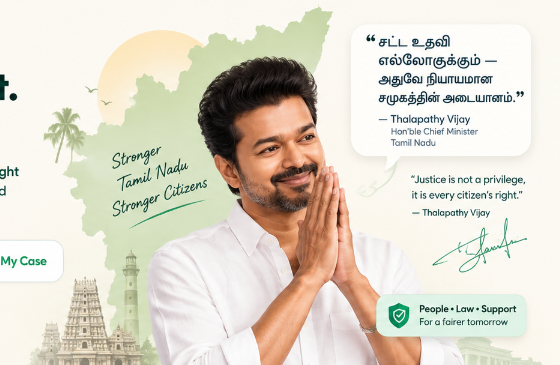
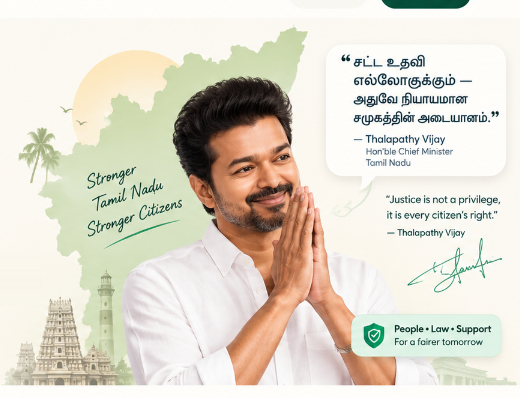
fix(hero): remove text artifacts from CM Vijay hero artwork and refine pill buttons with seamless background

diff --git a/src/components/common/landing/Hero.jsx b/src/components/common/landing/Hero.jsx
@@ -61,25 +61,21 @@ const Hero = () => {
   };
 
   return (
-    <section className="relative pt-28 pb-10 sm:pt-36 sm:pb-14 lg:pt-36 lg:pb-12 overflow-hidden bg-[#FEFDFA]">
-      {/* Soft ambient radial glow */}
-      <div className="absolute top-1/4 left-1/3 -translate-x-1/2 -translate-y-1/2 w-[340px] sm:w-[650px] h-[340px] sm:h-[650px] bg-[#E7F1E4]/70 rounded-full blur-3xl pointer-events-none -z-0" />
-      <div className="absolute top-1/3 right-10 w-[300px] h-[300px] bg-[#FBEED7]/40 rounded-full blur-3xl pointer-events-none -z-0" />
-
+    <section className="relative pt-24 pb-8 sm:pt-32 sm:pb-12 lg:pt-32 lg:pb-10 overflow-hidden bg-[#FAF8F2]">
       <div className="relative z-10 max-w-7xl mx-auto px-4 sm:px-6 lg:px-8">
-        <div className="grid grid-cols-1 lg:grid-cols-12 gap-8 lg:gap-8 items-center">
+        <div className="grid grid-cols-1 lg:grid-cols-12 gap-6 lg:gap-8 items-center">
           
           {/* Left Column: Civic Messaging & Actions */}
-          <div className="lg:col-span-7 space-y-5 text-left">
+          <div className="lg:col-span-6 space-y-5 text-left">
             
             {/* Civic Eyebrow Badge */}
-            <div className="inline-flex items-center gap-2 rounded-full bg-[#E5F0E6] border border-[#CDE3CF] px-3.5 py-1.5 text-xs font-bold text-[#167957] shadow-2xs">
+            <div className="inline-flex items-center gap-2 rounded-full bg-[#E5F0E6] border border-[#CDE3CF] px-4 py-1.5 text-xs font-bold text-[#167957] shadow-2xs">
               <Leaf size={14} className="text-[#167957]" />
               <span>{t("hero.eyebrow", "Accessible Justice for Every Citizen")}</span>
             </div>
 
             {/* Main Heading */}
-            <h1 className="text-4xl sm:text-5xl lg:text-[54px] font-black text-[#163D32] tracking-tight leading-[1.12]">
+            <h1 className="text-4xl sm:text-5xl lg:text-[46px] xl:text-[52px] font-black text-[#163D32] tracking-tight leading-[1.12]">
               {t("hero.title1", "Your Rights. Our Support.")} <br />
               <span className="text-[#12805A]">{t("hero.title2", "A Fairer Tomorrow.")}</span>
             </h1>
@@ -95,7 +91,7 @@ const Hero = () => {
               <button
                 type="button"
                 onClick={() => navigate("/citizen/chatbot")}
-                className="flex items-center justify-center gap-2 px-6 py-3.5 rounded-2xl bg-[#0D3B2E] hover:bg-[#165340] text-white font-bold text-sm shadow-md transition cursor-pointer min-h-[46px]"
+                className="flex items-center justify-center gap-2 px-6 py-3 rounded-full bg-[#0D3B2E] hover:bg-[#165340] text-white font-bold text-sm shadow-md transition cursor-pointer min-h-[44px]"
               >
                 <MessageSquare size={16} />
                 <span>{t("hero.askAi", "Ask ARAM AI")}</span>
@@ -106,7 +102,7 @@ const Hero = () => {
               <button
                 type="button"
                 onClick={() => navigate("/citizen/submit-complaint")}
-                className="flex items-center justify-center gap-2 px-5 py-3.5 rounded-2xl bg-[#FFFDF8] border border-[#DDE2DF] hover:border-[#12805A]/40 text-[#12805A] hover:bg-[#DCEBDD]/30 font-bold text-sm shadow-2xs transition cursor-pointer min-h-[46px]"
+                className="flex items-center justify-center gap-2 px-5 py-3 rounded-full bg-white border border-[#12805A] hover:border-[#0D3B2E] text-[#12805A] hover:bg-[#E8F3ED] font-bold text-sm shadow-2xs transition cursor-pointer min-h-[44px]"
               >
                 <FileText size={16} className="text-[#12805A]" />
                 <span>{t("hero.fileGrievance", "File a Grievance")}</span>
@@ -116,7 +112,7 @@ const Hero = () => {
               <button
                 type="button"
                 onClick={() => navigate("/track-complaint")}
-                className="flex items-center justify-center gap-2 px-5 py-3.5 rounded-2xl bg-[#FFFDF8] border border-[#DDE2DF] hover:border-[#12805A]/40 text-[#12805A] hover:bg-[#DCEBDD]/30 font-bold text-sm shadow-2xs transition cursor-pointer min-h-[46px]"
+                className="flex items-center justify-center gap-2 px-5 py-3 rounded-full bg-white border border-[#12805A] hover:border-[#0D3B2E] text-[#12805A] hover:bg-[#E8F3ED] font-bold text-sm shadow-2xs transition cursor-pointer min-h-[44px]"
               >
                 <Compass size={16} className="text-[#12805A]" />
                 <span>{t("hero.trackCase", "Track My Case")}</span>
@@ -128,40 +124,40 @@ const Hero = () => {
               <button
                 type="button"
                 onClick={handleVoice}
-                className={`flex items-center gap-2 px-4 py-2.5 rounded-2xl border font-bold text-xs transition shadow-2xs cursor-pointer min-h-[40px] ${
+                className={`flex items-center gap-2 px-4 py-2 rounded-full border font-bold text-xs transition shadow-2xs cursor-pointer min-h-[38px] ${
                   isRecording
                     ? "bg-red-600 text-white border-red-700 animate-pulse"
-                    : "bg-[#FFFDF8] border-[#DDE2DF] text-[#163D32] hover:bg-[#DCEBDD]/40"
+                    : "bg-white border-[#DDE2DF] hover:border-[#12805A] text-[#163D32] hover:bg-[#E8F3ED]/60"
                 }`}
               >
-                <Mic size={15} className={isRecording ? "text-white" : "text-[#12805A]"} />
+                <Mic size={14} className={isRecording ? "text-white" : "text-[#12805A]"} />
                 <span>{isRecording ? t("hero.listening", "Listening...") : "Speak"}</span>
               </button>
 
               <button
                 type="button"
                 onClick={() => navigate("/citizen/chatbot")}
-                className="flex items-center gap-2 px-4 py-2.5 rounded-2xl bg-[#FFFDF8] border border-[#DDE2DF] text-[#163D32] hover:bg-[#DCEBDD]/40 font-bold text-xs transition shadow-2xs cursor-pointer min-h-[40px]"
+                className="flex items-center gap-2 px-4 py-2 rounded-full bg-white border border-[#DDE2DF] hover:border-[#12805A] text-[#163D32] hover:bg-[#E8F3ED]/60 font-bold text-xs transition shadow-2xs cursor-pointer min-h-[38px]"
               >
-                <Keyboard size={15} className="text-[#12805A]" />
+                <Keyboard size={14} className="text-[#12805A]" />
                 <span>Type</span>
               </button>
 
               <button
                 type="button"
                 onClick={() => navigate("/citizen/documents")}
-                className="flex items-center gap-2 px-4 py-2.5 rounded-2xl bg-[#FFFDF8] border border-[#DDE2DF] text-[#163D32] hover:bg-[#DCEBDD]/40 font-bold text-xs transition shadow-2xs cursor-pointer min-h-[40px]"
+                className="flex items-center gap-2 px-4 py-2 rounded-full bg-white border border-[#DDE2DF] hover:border-[#12805A] text-[#163D32] hover:bg-[#E8F3ED]/60 font-bold text-xs transition shadow-2xs cursor-pointer min-h-[38px]"
               >
-                <FileUp size={15} className="text-[#12805A]" />
+                <FileUp size={14} className="text-[#12805A]" />
                 <span>Upload</span>
               </button>
 
               <button
                 type="button"
                 onClick={() => navigate("/citizen/submit-complaint")}
-                className="flex items-center gap-2 px-4 py-2.5 rounded-2xl bg-[#FFFDF8] border border-[#DDE2DF] text-[#163D32] hover:bg-[#DCEBDD]/40 font-bold text-xs transition shadow-2xs cursor-pointer min-h-[40px]"
+                className="flex items-center gap-2 px-4 py-2 rounded-full bg-white border border-[#DDE2DF] hover:border-[#12805A] text-[#163D32] hover:bg-[#E8F3ED]/60 font-bold text-xs transition shadow-2xs cursor-pointer min-h-[38px]"
               >
-                <Users size={15} className="text-[#12805A]" />
+                <Users size={14} className="text-[#12805A]" />
                 <span>Connect</span>
               </button>
             </div>
@@ -169,15 +165,12 @@ const Hero = () => {
           </div>
 
           {/* Right Column: CM Vijay Civic Showcase Visual */}
-          <div className="lg:col-span-5 flex items-center justify-center relative mt-6 lg:mt-0">
-            <div className="relative w-full max-w-[560px] group">
-              {/* Soft ambient blur behind leader artwork */}
-              <div className="absolute inset-0 bg-gradient-to-tr from-[#DCEBDD]/70 via-[#E8C978]/25 to-transparent rounded-3xl blur-2xl -z-10" />
-
+          <div className="lg:col-span-6 flex items-center justify-center lg:justify-end relative mt-4 lg:mt-0">
+            <div className="relative w-full max-w-[580px]">
               <img
                 src="/assets/cm_vijay_hero@2x.png"
                 alt="Hon'ble Chief Minister Thalapathy Vijay - ARAM Civic Legal Aid & Justice"
-                className="w-full h-auto object-contain rounded-3xl transition-transform duration-300 group-hover:scale-[1.01]"
+                className="w-full h-auto object-contain transition-transform duration-300 hover:scale-[1.01]"
                 loading="eager"
               />
             </div>
